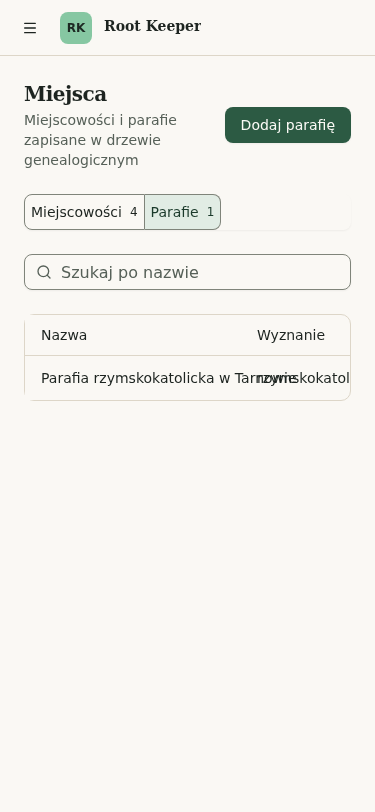
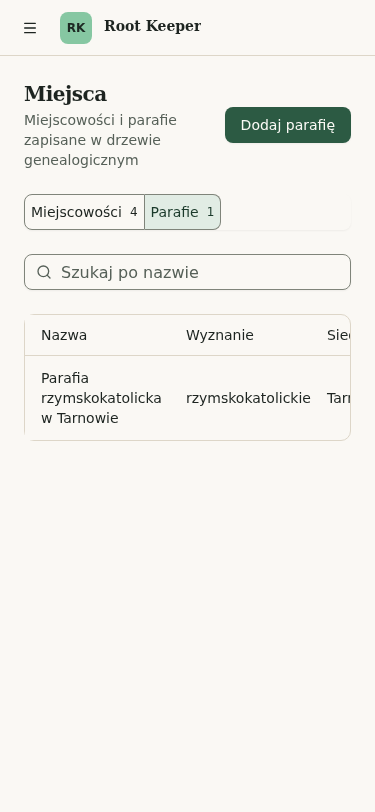
fix(places): długa nazwa w przyklejonej kolumnie zawija się na wąskim ekranie
Na 375 px nazwa parafii („Parafia rzymskokatolicka w Tarnowie”) wychodziła
poza przyklejoną pierwszą komórkę (224 px, whitespace-nowrap z TableCell)
i nachodziła na kolumnę „Wyznanie”. Link nazwy w tabelach parafii
i miejscowości dostaje break-words whitespace-normal, jak nazwa
w persons-table i sources-table.

Zamyka krok 4.5 places-page: zrzuty after/ odświeżone, C1–C5 zamknięte
w verdict.md.

Changed region(s): [[0.088, 0.4618, 0.9387, 0.5234], [0.4987, 0.4002, 0.9387, 0.431]]

diff --git a/resources/js/components/localities/localities-table.tsx b/resources/js/components/localities/localities-table.tsx
@@ -70,7 +70,7 @@ export function LocalitiesTable({
                                     }
                                     className={cn(
                                         focusRing,
-                                        '-m-1 block rounded-md p-1 font-medium',
+                                        '-m-1 block rounded-md p-1 font-medium break-words whitespace-normal',
                                         locality.id === openId && 'underline',
                                     )}
                                 >

diff --git a/resources/js/components/parishes/parishes-table.tsx b/resources/js/components/parishes/parishes-table.tsx
@@ -71,7 +71,7 @@ export function ParishesTable({
                                     }
                                     className={cn(
                                         focusRing,
-                                        '-m-1 block rounded-md p-1 font-medium',
+                                        '-m-1 block rounded-md p-1 font-medium break-words whitespace-normal',
                                         parish.id === openId && 'underline',
                                     )}
                                 >

diff --git a/context/archive/2026-10-12-places-page/screenshots/verdict.md b/context/archive/2026-10-12-places-page/screenshots/verdict.md
@@ -8,7 +8,7 @@ Stan: zrzuty „przed” w `before/`, „po” w `after/` (2026-10-20, serwer E2
 | C2 — duplikacja stron | `before/01`, `before/05` | `after/01`, `after/02`, `after/11`, `after/12` | zamknięty | Jedna strona z przełącznikiem „Miejscowości 4 / Parafie 1”; wyszukiwanie liczy trafienia w obu zakładkach, „Pokaż w parafiach (1)” przechodzi na `?kind=parafie` z tym samym `q`. `places-page.spec.ts` przechodzi (3 passed). |
 | C3 — ręczny pierścień fokusu | `before/04-localities-focus-row.png`, `before/08-parishes-focus-row.png` | `after/08-places-miejscowosci-focus-row.png`, `after/10-places-parafie-focus-row.png` | zamknięty | Link wiersza ma `:focus-visible` i ten sam pierścień co przycisk „Dodaj …” (`0 0 0 3px rgb(44, 90, 67)`, pomiar po animacjach). |
 | C4 — „Użycia” o dwóch znaczeniach | `before/05-parishes-desktop.png`, `before/06-parishes-mobile.png` | `after/02-places-parafie-desktop.png`, `after/01-places-miejscowosci-desktop.png` | zamknięty | U parafii nagłówek „Źródła”, u miejscowości „Użycia”. |
-| C5 — tabela parafii na 375 px | `before/06-parishes-mobile.png` | `after/04-places-parafie-mobile.png`, `after/03-places-miejscowosci-mobile.png` | częściowo | Pierwsza kolumna jest `sticky` w obu tabelach, a nagłówek z „Dodaj …” mieści się w szerokości. **Nowa usterka:** długa nazwa parafii („Parafia rzymskokatolicka w Tarnowie”) wychodzi poza przyklejoną komórkę (szerokość 224 px, treść 272 px, `white-space: nowrap`, `overflow: visible`) i nakłada się na kolumnę „Wyznanie” już bez przewijania. Do osobnej zmiany: zawijanie lub ucinanie nazwy w przyklejonej komórce. |
+| C5 — tabela parafii na 375 px | `before/06-parishes-mobile.png` | `after/04-places-parafie-mobile.png`, `after/03-places-miejscowosci-mobile.png` | zamknięty | Pierwsza kolumna jest `sticky` w obu tabelach, a nagłówek z „Dodaj …” mieści się w szerokości. Pierwsze zrzuty „po” pokazały, że długa nazwa parafii („Parafia rzymskokatolicka w Tarnowie”) wychodziła poza przyklejoną komórkę (komórka 224 px, treść 272 px, `white-space: nowrap` z `TableCell`) i nakładała się na „Wyznanie”. Poprawka 2026-10-20: link nazwy w `parishes-table.tsx` i `localities-table.tsx` dostał `break-words whitespace-normal`, jak nazwa w `persons-table.tsx` i `sources-table.tsx`. Pomiar po poprawce: link 129 px w komórce 153 px, nazwa w 3 liniach; desktop bez zmian (`after/02`). |
 
 ## Czego nie sprawdzono
 

diff --git a/context/archive/2026-10-12-places-page/plan.md b/context/archive/2026-10-12-places-page/plan.md
@@ -484,5 +484,5 @@ Bez migracji danych. Stare adresy działają przez 302. Wayfinder po dodaniu tra
 
 #### Manual
 
-- [ ] 4.5 Zrzuty „po” w `screenshots/after/` i `verdict.md` potwierdzają zamknięcie C1–C5 na desktopie i 375 px
+- [x] 4.5 Zrzuty „po” w `screenshots/after/` i `verdict.md` potwierdzają zamknięcie C1–C5 na desktopie i 375 px
 - [x] 4.6 Celowo wprowadzony `ring-[3px]` w `places/index.tsx` czerwieni `test:js` (sprawdzenie i cofnięcie)
